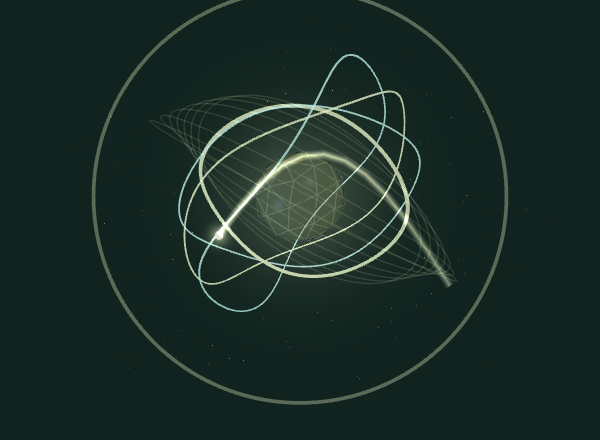
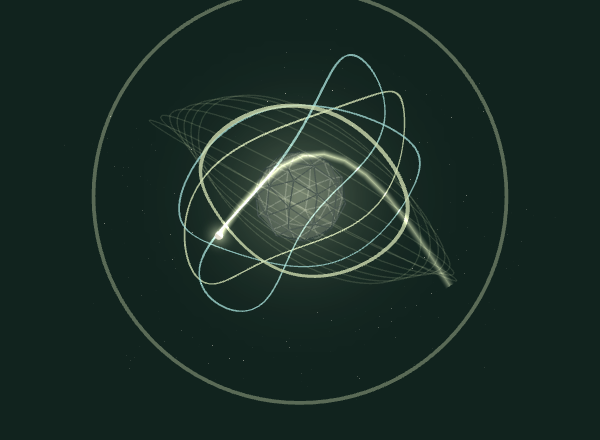
fix: guard compiled studio styles and repair live rendering

diff --git a/web/src/motion-stage.js b/web/src/motion-stage.js
@@ -82,18 +82,12 @@ export class MotionStage {
 
   buildScene() {
     const scene = this.scene;
-    scene.add(new THREE.AmbientLight('#dceacb', 1.4));
-    this.keyLight = new THREE.PointLight('#bcffc3', 16, 15, 2);
-    this.keyLight.position.set(2, 3, 4); scene.add(this.keyLight);
-    this.fillLight = new THREE.PointLight('#b5f6ff', 12, 15, 2);
-    this.fillLight.position.set(-3, -1, 2); scene.add(this.fillLight);
     this.rig = new THREE.Group(); this.rig.position.y = .35; scene.add(this.rig);
     this.ribbons = [];
     for (let i = 0; i < 4; i++) {
       const curve = new THREE.CatmullRomCurve3(orbitPoints(1.55 + i * .22, .11 + i * .03), true);
-      const geometry = new THREE.TubeGeometry(curve, 192, i === 0 ? .028 : .013, 6, true);
-      const material = new THREE.MeshStandardMaterial({ color: '#bfe889', emissive: '#bfe889', emissiveIntensity: .55,
-        metalness: .5, roughness: .25, transparent: true, opacity: .75 });
+      const geometry = new THREE.TubeGeometry(curve, 96, i === 0 ? .028 : .013, 4, true);
+      const material = new THREE.MeshBasicMaterial({ color: '#bfe889', transparent: true, opacity: .75, depthWrite: false });
       const mesh = new THREE.Mesh(geometry, material);
       mesh.rotation.set(.25 + i * .3, i * .38, i * .35);
       this.ribbons.push(mesh); this.rig.add(mesh);
@@ -105,9 +99,8 @@ export class MotionStage {
       line.rotation.set(.55 + i * .12, -.3, i * .17);
       this.orbits.push(line); this.rig.add(line);
     }
-    this.core = new THREE.Mesh(new THREE.IcosahedronGeometry(.64, 3),
-      new THREE.MeshPhysicalMaterial({ color: '#e3efc9', emissive: '#bfe889', emissiveIntensity: .15,
-        metalness: .3, roughness: .3, clearcoat: 1, transparent: true, opacity: .32 }));
+    this.core = new THREE.Mesh(new THREE.IcosahedronGeometry(.64, 1),
+      new THREE.MeshBasicMaterial({ color: '#e3efc9', transparent: true, opacity: .16, depthWrite: false }));
     this.rig.add(this.core);
     const wire = new THREE.Mesh(new THREE.IcosahedronGeometry(.67, 1),
       new THREE.MeshBasicMaterial({ color: '#dfefd0', wireframe: true, transparent: true, opacity: .09 }));
@@ -129,7 +122,7 @@ export class MotionStage {
       transparent: true, opacity: .7, depthWrite: false, blending: THREE.AdditiveBlending }));
     scene.add(this.stars);
 
-    const pulseGeometry = new THREE.TorusGeometry(1, .009, 6, 160);
+    const pulseGeometry = new THREE.TorusGeometry(1, .009, 4, 96);
     this.pulseMeshes = Array.from({ length: this.pulses.limit }, () => {
       const mesh = new THREE.Mesh(pulseGeometry, new THREE.MeshBasicMaterial({ color: '#d4ed91', transparent: true,
         opacity: 0, depthWrite: false, blending: THREE.AdditiveBlending }));
@@ -171,11 +164,10 @@ export class MotionStage {
     this.theme = name in palettes ? name : 'aurora';
     this.canvas.dataset.sceneTheme = this.theme;
     const palette = palettes[this.theme];
-    this.ribbons.forEach((mesh, i) => { mesh.material.color.set(i % 2 ? palette.secondary : palette.ribbon); mesh.material.emissive.copy(mesh.material.color); });
+    this.ribbons.forEach((mesh, i) => { mesh.material.color.set(i % 2 ? palette.secondary : palette.ribbon); });
     this.orbits.forEach(line => line.material.color.set(palette.ribbon));
-    this.core.material.color.set(palette.pearl); this.core.material.emissive.set(palette.ribbon);
+    this.core.material.color.set(palette.pearl);
     this.aura.material.color.set(palette.ribbon); this.stars.material.color.set(palette.pearl);
-    this.keyLight.color.set(palette.ribbon); this.fillLight.color.set(palette.secondary);
     this.pulseMeshes.forEach(mesh => mesh.material.color.set(palette.ribbon));
     this.ribbonTrail.material.uniforms.uColor.value.set(palette.ribbon);
     this.cursor.children[0].material.color.set(palette.pearl); this.cursor.children[1].material.color.set(palette.ribbon);
@@ -185,7 +177,10 @@ export class MotionStage {
     if (!this.renderer || this.disposed || this.contextLost) return;
     const box = this.canvas.getBoundingClientRect();
     this.width = Math.max(1, box.width); this.height = Math.max(1, box.height);
-    this.renderer.setPixelRatio(Math.min(window.devicePixelRatio || 1, this.width < 500 ? 1.25 : 1.5));
+    // Bound the framebuffer even on large/high-DPI screens. A broken layout
+    // must not allocate a page-sized GPU surface or monopolize the renderer.
+    const ratio = Math.min(window.devicePixelRatio || 1, 1, Math.sqrt(600000 / (this.width * this.height)));
+    this.renderer.setPixelRatio(ratio);
     this.renderer.setSize(this.width, this.height, false);
     this.camera.aspect = this.width / this.height; this.camera.updateProjectionMatrix();
     this.lastDraw = -Infinity;
@@ -250,11 +245,10 @@ export class MotionStage {
     this.core.rotation.y = this.phase * .4;
     this.ribbons.forEach((mesh, i) => {
       mesh.rotation.z = i * .35 + this.phase * (i % 2 ? -.16 : .22);
-      mesh.material.emissiveIntensity = (playing ? .45 : .17) + gain * .3 + energy;
-      mesh.material.opacity = playing ? .82 : .4;
+      mesh.material.opacity = clamp((playing ? .6 : .28) + gain * .15 + energy * .25);
     });
     this.aura.material.opacity = (playing ? .27 : .12) + gain * .06 + energy * .25;
-    this.core.material.opacity = playing ? .35 : .16;
+    this.core.material.opacity = playing ? .14 : .06;
     this.pulseMeshes.forEach((mesh, i) => {
       const p = pulses[i]; mesh.visible = Boolean(p);
       if (!p) return;

diff --git a/web/e2e/studio.spec.js b/web/e2e/studio.spec.js
@@ -32,6 +32,31 @@ test('English guided entry is silent, gated and visually complete', async ({ pag
   await page.screenshot({ path: resolve(captures, 'studio-desktop.png'), fullPage: true });
 });
 
+test('Tailwind layout is compiled and every SVG icon has a bounded size', async ({ page }) => {
+  await expect(page.locator('#studio')).toHaveCSS('display', 'grid');
+  const widths = await page.locator('svg').evaluateAll(icons => icons.map(icon => icon.getBoundingClientRect().width));
+  expect(Math.max(...widths)).toBeLessThanOrEqual(30);
+});
+
+test('uncompiled studio styles show a bounded recovery message before canvas initialization', async ({ page }) => {
+  await page.route('**/src/style.css*', route => route.fulfill({ contentType: 'application/javascript',
+    body: `const style = document.createElement('style'); style.textContent = '.studio { @apply grid; }'; document.head.append(style);` }));
+  await page.reload();
+  await expect(page.getByRole('heading', { name: 'The studio styles did not load.' })).toBeVisible();
+  await expect(page.locator('#motion-canvas')).toHaveCount(0);
+  await expect(page.locator('svg')).toHaveCount(0);
+  expect(await page.evaluate(() => document.documentElement.scrollWidth)).toBeLessThanOrEqual(1440);
+  expect(page.__errors).toEqual(['Studio styles are uncompiled. Restart Vite with the Tailwind plugin.']);
+  page.__errors.length = 0; // This simulated failure is the expected guard, not a hidden renderer error.
+});
+
+test('large viewport keeps the GPU framebuffer within its fixed pixel budget', async ({ page }) => {
+  await page.setViewportSize({ width: 2560, height: 1440 });
+  await expect.poll(() => page.locator('#motion-canvas').evaluate(canvas => canvas.width * canvas.height)).toBeLessThanOrEqual(600000);
+  await page.locator('#mode-manual').click();
+  await expect(page.locator('#play')).toBeEnabled();
+});
+
 test('Listen plays real music; pause retains position, resume continues, end rewinds', async ({ page }) => {
   await page.locator('#mode-manual').click();
   await expect(page.locator('#play')).toBeEnabled();

diff --git a/web/src/main.js b/web/src/main.js
@@ -6,8 +6,11 @@ import { createMusicSession } from './audio.js';
 import { HandControl } from './hand-control.js';
 import { VisionSession } from './vision.js';
 import { Experience } from './experience.js';
+import { requireStudioStyles } from './style-readiness.js';
 
 const root = document.querySelector('#app');
+requireStudioStyles(root);
+const motionPreference = matchMedia('(prefers-reduced-motion: reduce)');
 let view, stage, experience;
 let disposed = false, pageHidden = false;
 const music = createMusicSession(state, { onEvent: (kind, data) => session.recordMusicEvent(kind, data) });
@@ -18,6 +21,7 @@ const control = new HandControl({ state, music,
   allowPlayback: () => state.performanceActive && !state.performanceBusy && state.experienceMode === 'conduct',
   onEvent: (kind, data) => session.recordVisionEvent(kind, data) });
 const update = () => {
+  state.systemReducedMotion = motionPreference.matches;
   session.tick(); music.tick(); experience?.tick(); control.tick();
   view = renderStatus(root, state, { supported: session.transport.supported });
 };

diff --git a/web/src/style-readiness.js b/web/src/style-readiness.js
@@ -1,0 +1,14 @@
+// A stale Vite process can serve @apply without the Tailwind plugin. Never mount
+// the canvas or SVG-heavy studio until the actual compiled layout is available.
+export function requireStudioStyles(root) {
+  const probe = document.createElement('div');
+  probe.className = 'studio';
+  probe.style.cssText = 'position:absolute;visibility:hidden;width:1px;height:1px;overflow:hidden;';
+  root.append(probe);
+  const compiled = getComputedStyle(probe).display === 'grid';
+  probe.remove();
+  if (compiled) return;
+  root.style.cssText = 'max-width:640px;margin:48px auto;padding:24px;font:16px/1.6 Arial,sans-serif;';
+  root.innerHTML = '<h1 style="font-size:24px">The studio styles did not load.</h1><p>Restart the local development server, then reload this page.</p><pre style="overflow:auto">cd web\nnpm run dev -- --host 127.0.0.1 --port 5173 --strictPort</pre>';
+  throw new Error('Studio styles are uncompiled. Restart Vite with the Tailwind plugin.');
+}

diff --git a/web/src/visuals.js b/web/src/visuals.js
@@ -5,7 +5,7 @@ import { readiness } from './experience.js';
 const views = new WeakMap();
 const text = (el, value) => { if (el.textContent !== String(value)) el.textContent = value; };
 const error = (el, message) => { el.hidden = !message; text(el, message ?? ''); };
-const icon = path => `<svg viewBox="0 0 24 24" fill="none" stroke="currentColor" stroke-width="1.5" aria-hidden="true">${path}</svg>`;
+const icon = path => `<svg width="22" height="22" viewBox="0 0 24 24" fill="none" stroke="currentColor" stroke-width="1.5" aria-hidden="true">${path}</svg>`;
 const arrow = icon('<path d="M5 12h14m-6-6 6 6-6 6"/>');
 const camera = icon('<rect x="3" y="6" width="13" height="12" rx="3"/><path d="m16 10 5-3v10l-5-3"/>');
 const connections = { disconnected: 'Not connected', connecting: 'Choose a device', initializing: 'Starting device', connected: 'Connected', disconnecting: 'Disconnecting', unresponsive: 'No response' };

diff --git a/docs/architecture.md b/docs/architecture.md
@@ -51,7 +51,9 @@ Stage E requires an explicit camera button and a stable, user-confirmed physical
 
 The core-control checkpoint is on `dev-1`; the product studio is implemented on `dev-2`. Conduct guides connection, calibration, camera access and left confirmation before one Start action. Listen requires only the local score. Starting unlocks audio directly from the click before serial awaits; failure rolls back detection. End silences immediately and stops detection, disconnecting if commands cannot finish. Reset also releases camera and binding. Device loss pauses audio and blocks gesture resume until a new explicit start; camera loss preserves volume-hold behavior. Active pause/resume retains source overrides. Mode changes require ending the performance.
 
-The visual upgrade is on `dev-3`, using Tailwind CSS 4.3.3 and Three.js 0.186.1. Aurora and Nocturne are presentation palettes. A user preference or system reduced-motion setting freezes ambient animation and suppresses trails/pulses while retaining the real hand cursor. WebGL initialization failure selects a static scene; context loss/recovery leaves audio available. Geometry, materials, textures, observers and listeners are released on disposal. Render scheduling pauses offscreen or in hidden documents, caps at roughly 30 FPS and limits pixel ratio to 1.5 (1.25 on narrow stages). The scene is a separate lazy chunk, about 143 kB gzip; music/UI initialization does not wait for it.
+The visual upgrade is on `dev-3`, using Tailwind CSS 4.3.3 and Three.js 0.186.1. Aurora and Nocturne are presentation palettes. A user preference or system reduced-motion setting freezes ambient animation and suppresses trails/pulses while retaining the real hand cursor. WebGL initialization failure selects a static scene; context loss/recovery leaves audio available. Geometry, materials, textures, observers and listeners are released on disposal. Render scheduling pauses offscreen or in hidden documents and caps at roughly 30 FPS. Lightweight unlit materials avoid physical-lighting passes; pixel ratio is at most 1 and the framebuffer is bounded to 600,000 pixels. The scene is a separate lazy chunk, about 141 kB gzip; music/UI initialization does not wait for it.
+
+`style-readiness.js` verifies the actual compiled grid style before mounting the studio. An already-running Vite process can miss a newly created plugin configuration and serve raw Tailwind directives. The startup guard prevents unstyled canvases/oversized SVGs and displays a bounded recovery message. Icons also have explicit width/height attributes. `check:live` validates the actual dev service rather than only fresh isolated test services. System motion preference is refreshed by the UI lifecycle even when the stage is offscreen.
 
 Camera settings auto-open for binding; successful start closes them and brings the studio into view. Permission and runtime errors remain recoverable. Firmware, stroke parameters, tempo estimation, musical scheduling and classification thresholds are unchanged. The optional gesture gate prevents an interrupted performance from resuming through an open palm.
 

diff --git a/docs/testing.md b/docs/testing.md
@@ -2,6 +2,17 @@
 
 ## dev-3 Three.js and Tailwind CSS
 
+### Rendering repair after the initial dev-3 checkpoint
+
+- The user reported a huge arrow on the home page and unresponsive controls. The live service on 5173 returned raw `@apply` and `@theme`; its existing Vite process had not loaded the newly created Tailwind plugin configuration. Fresh browser/build test servers had compiled the styles correctly. A click against the broken live page timed out after 30 seconds. Restarting the verified Vite process fixed the actual service. `live-server-failure.json` retains the observed failure.
+- Added a compiled-layout startup guard, bounded SVG dimensions and a `check:live` command against the actual running service. Missing/uncompiled styles now show recovery instructions without initializing a canvas. The scene uses lighter materials and less geometry: the same synthetic fixture renders 4,114 triangles instead of 11,650, with error 0 and full disposal. High-DPI framebuffer size dropped from 1,479,735 to below 600,000 pixels.
+- All 68 Node checks, 18 browser checks and seven production checks pass. Three new browser cases cover compiled layout/icon dimensions, deliberate uncompiled-CSS failure, and large-screen pixel bounds. The reduced-motion check exposed an occasional missed media-query update; the UI now reads the current system preference independently of scene visibility.
+- `check:live` uses muted headless Chrome at 1440×1000 with DPR 2, checks compiled Tailwind and actual computed layout/icon sizes, captures the actual-service page, runs Listen for five seconds and checks pause response. Its result is retained in `render-performance-after.json`; startup and active long tasks are reported separately. These measurements do not guarantee performance on every GPU and do not establish a reliable cold-start improvement. No physical device/camera or participant cue was opened.
+
+### Initial visual upgrade checkpoint (ad70783)
+
+The figures below describe the initial commit; current report files are updated by the rendering repair above.
+
 - Tailwind CSS 4.3.3 is compiled through `@tailwindcss/vite`; component layouts and typography use its theme and utilities. Three.js 0.186.1 replaces the Canvas 2D stage with WebGL rendering. The firmware, tempo/audio algorithms and gesture thresholds are unchanged.
 - All 68 Node checks pass, including bounded pulse intensity/expiry and breaks on rebound hand labels or invalid positions.
 - All 15 muted headless Chrome checks pass. The ten existing product checks remain passing; five additions cover actual renderer theme switching and frozen reduced-motion frames, OS motion preference, WebGL context loss/recovery while playing, unavailable-WebGL fallback with real Listen audio, and synthetic frame/beat rendering plus GPU cleanup.

diff --git a/README.md b/README.md
@@ -14,6 +14,8 @@ npm run dev -- --host 127.0.0.1 --port 5173 --strictPort
 
 Open **http://127.0.0.1:5173/** in Chrome or Edge. Music, hand models, and tracking runtime are local. No Python service or Lab4 installation is needed.
 
+Restart Vite after changing its plugins or configuration. If the page reports that studio styles did not load, restart the server using the command above and reload.
+
 ## Play
 
 Choose **Listen** for music with tempo and volume sliders, or **Conduct** for hand control:
@@ -36,6 +38,6 @@ The tested module identifies as MPU6500 (`0x70` at `0x68`). Firmware also suppor
 
 ## Development
 
-From `web/`: `npm test`, `npm run test:browser`, and `npm run test:production`. The last command builds and checks the production app. Browser checks use installed Chrome, muted headless playback, and separate ports (5174/5175); no physical device or camera is opened. `npm run preview` serves the production build.
+From `web/`: `npm test`, `npm run test:browser`, and `npm run test:production`. The last command builds and checks the production app. Browser checks use installed Chrome, muted headless playback, and separate ports (5174/5175); no physical device or camera is opened. `npm run check:live` checks the running dev server on 5173, including compiled styles, icon sizes, rendering and button response. `npm run preview` serves the production build.
 
 Project code: MIT. Dependencies: MediaPipe (Apache-2.0); Three.js, Tailwind CSS, Tone.js and @tonejs/midi (MIT). The included project MIDI plays Beethoven’s *Ode to Joy*. Development asset provenance and verification records are archived on development branches.
